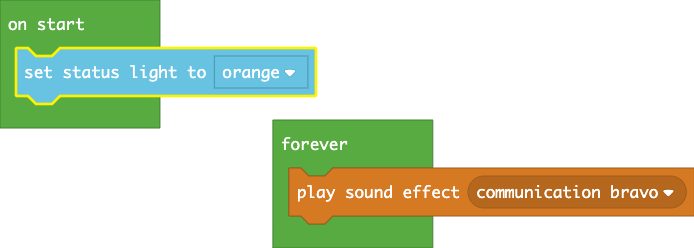
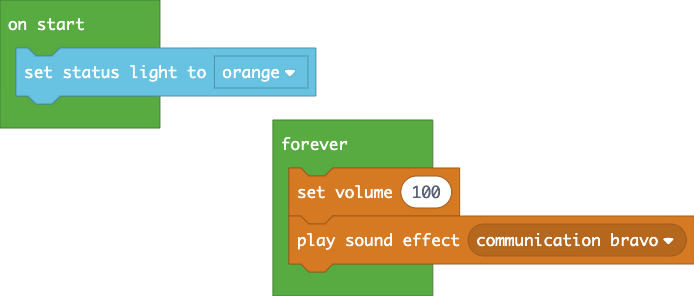
MAKE IT LOWDER

Changed region(s): [[0.0, 0.0565, 0.6354, 0.5363], [0.3934, 0.5363, 1.0, 0.9315]]

diff --git a/main.ts b/main.ts
@@ -1,4 +1,5 @@
 brick.setStatusLight(StatusLight.Orange)
 forever(function () {
+    music.setVolume(100)
     music.playSoundEffect(sounds.communicationBravo)
 })
